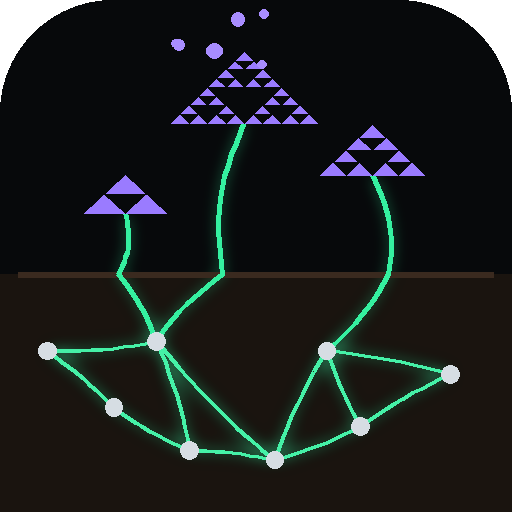
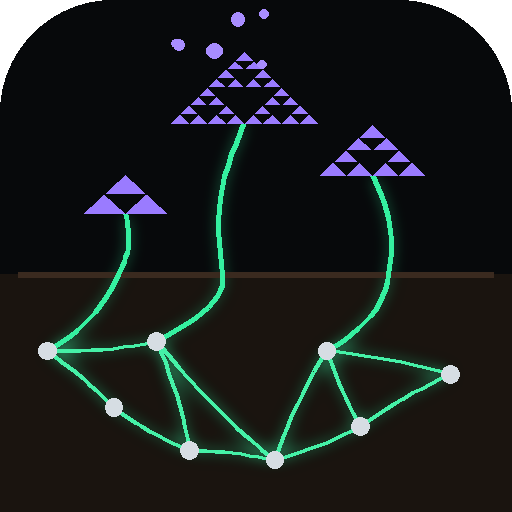
Stop the stems doubling back at the soil
Two of the three still turned a corner where they entered the ground,
and the join itself was not the problem — they were attached to a node
behind them. A stem leaving the surface heading left, joined to the
nearest node, which happened to lie to its right, has to turn around to
get there, and no amount of care at the seam can hide a reversal.

So a stem now joins the nearest node it is already heading towards. The
first attempt at that scored nodes by the dot product of the whole exit
tangent, and changed nothing at all: every node is below the foot, so
the downward component dominates and calls all of them "ahead". What
makes a line double back is horizontal, so that is what is measured now,
weighted by how sideways the stem was going in the first place — a stem
leaving almost vertically may join whichever node is nearest, because it
has nothing to reverse.

Which node a stem touches carries no meaning, so trading a little
distance for a line that does not fold back on itself costs nothing.

The descent also leaves along the stem's own tangent now rather than
bowing perpendicular to the chord to its node. That is what makes the
join smooth once the direction is right: a quadratic sets off straight
at its control point, so putting that point on the incoming tangent
continues the stem instead of starting a new curve at the same place.

diff --git a/assets/logo.py b/assets/logo.py
@@ -200,13 +200,71 @@ def stem_line(x0, stem_h, lean, sway, top_y, node, n=14):
         y = top_y + (HORIZON - top_y) * t
         pts.append((stem_axis(x0, stem_h, lean, sway, y), y))
 
-    # The descent, bowed away from the direction the stem came from, which
-    # continues the sway rather than reversing it.
-    foot = pts[-1]
-    prev = pts[-2]
-    side = 1.0 if (foot[0] - prev[0]) >= 0 else -1.0
-    pts += curve(foot, node, 0.10 * side, n=10)[1:]
+    # The descent. Its control point sits along the direction the stem was
+    # already travelling, which is what makes the join smooth: a quadratic
+    # leaves its start heading straight at its control point, so putting that
+    # point on the incoming tangent means the curve continues the stem rather
+    # than setting off somewhere of its own.
+    #
+    # Bowing perpendicular to the chord — which is what this did — happens to
+    # look right when the node lies the way the stem was already leaning, and
+    # visibly kinks at the soil when it does not. Two of the three did not.
+    foot, prev = pts[-1], pts[-2]
+    tx, ty = foot[0] - prev[0], foot[1] - prev[1]
+    tl = math.hypot(tx, ty) or 1.0
+    tx, ty = tx / tl, ty / tl
+
+    dx, dy = node[0] - foot[0], node[1] - foot[1]
+    dl = math.hypot(dx, dy) or 1.0
+    # How far along that tangent to reach. Shortened when the node lies against
+    # the stem's direction, or the curve overshoots and comes back — which is a
+    # different ugly shape, not a fix for this one.
+    align = max(0.15, (tx * dx + ty * dy) / dl)
+    cx, cy = foot[0] + tx * dl * 0.55 * align, foot[1] + ty * dl * 0.55 * align
+
+    for i in range(1, 13):
+        t = i / 12
+        u = 1.0 - t
+        pts.append((u * u * foot[0] + 2 * u * t * cx + t * t * node[0],
+                    u * u * foot[1] + 2 * u * t * cy + t * t * node[1]))
     return pts
+
+
+def exit_tangent(x0, stem_h, lean, sway, eps=0.6):
+    """The direction a stem is travelling as it reaches the soil."""
+    a = stem_axis(x0, stem_h, lean, sway, HORIZON - eps)
+    b = stem_axis(x0, stem_h, lean, sway, HORIZON)
+    d = math.hypot(b - a, eps) or 1.0
+    return ((b - a) / d, eps / d)
+
+
+def pick_node(foot, tan, nodes):
+    """Which node a stem joins: near, and in front of it.
+
+    Nearest alone is not enough, and this is the whole of why two of the three
+    stems had a corner at the soil. A stem leaving the surface heading left,
+    attached to the nearest node — which happened to be to its right — has to
+    turn around to get there, and no amount of care at the join can hide a
+    reversal. Weighting by alignment picks a node the stem is already going
+    towards, and then the curve simply continues.
+
+    A node twice as far but dead ahead beats one close behind, which is the
+    right trade for a drawing: the line is prettier and the graph is no less
+    true, since which node a stem happens to touch means nothing.
+    """
+    def score(n):
+        dx, dy = n[0] - foot[0], n[1] - foot[1]
+        d = math.hypot(dx, dy) or 1e-6
+        # Sideways agreement only. Every node is below the foot, so a dot
+        # product against the whole tangent is dominated by the downward
+        # component and calls everything "ahead" — which is why the first
+        # version of this changed nothing. What makes a stem double back is
+        # horizontal, so that is what is measured.
+        turn = 0.0
+        if tan[0] * (dx / d) < 0.0:
+            turn = abs(tan[0])
+        return d * (1.0 + 1.4 * turn)
+    return min(nodes, key=score)
 
 
 def mycelium():
@@ -285,8 +343,8 @@ def _geometry(simple=False):
         depth = 2 if simple else (3, 2, 1)[min(k, 2)]
         caps.append(cap_triangles(stem_axis(x0, sh, lean, sway, base), w, h, base, depth))
         foot = (stem_axis(x0, sh, lean, sway, HORIZON), HORIZON)
-        near = min(nodes, key=lambda n: (n[0] - foot[0]) ** 2 + (n[1] - foot[1]) ** 2)
-        stems.append(stem_line(x0, sh, lean, sway, base - h * 0.02, near))
+        stems.append(stem_line(x0, sh, lean, sway, base - h * 0.02,
+                               pick_node(foot, exit_tangent(x0, sh, lean, sway), nodes)))
 
     return caps, stems, nodes, links
 
